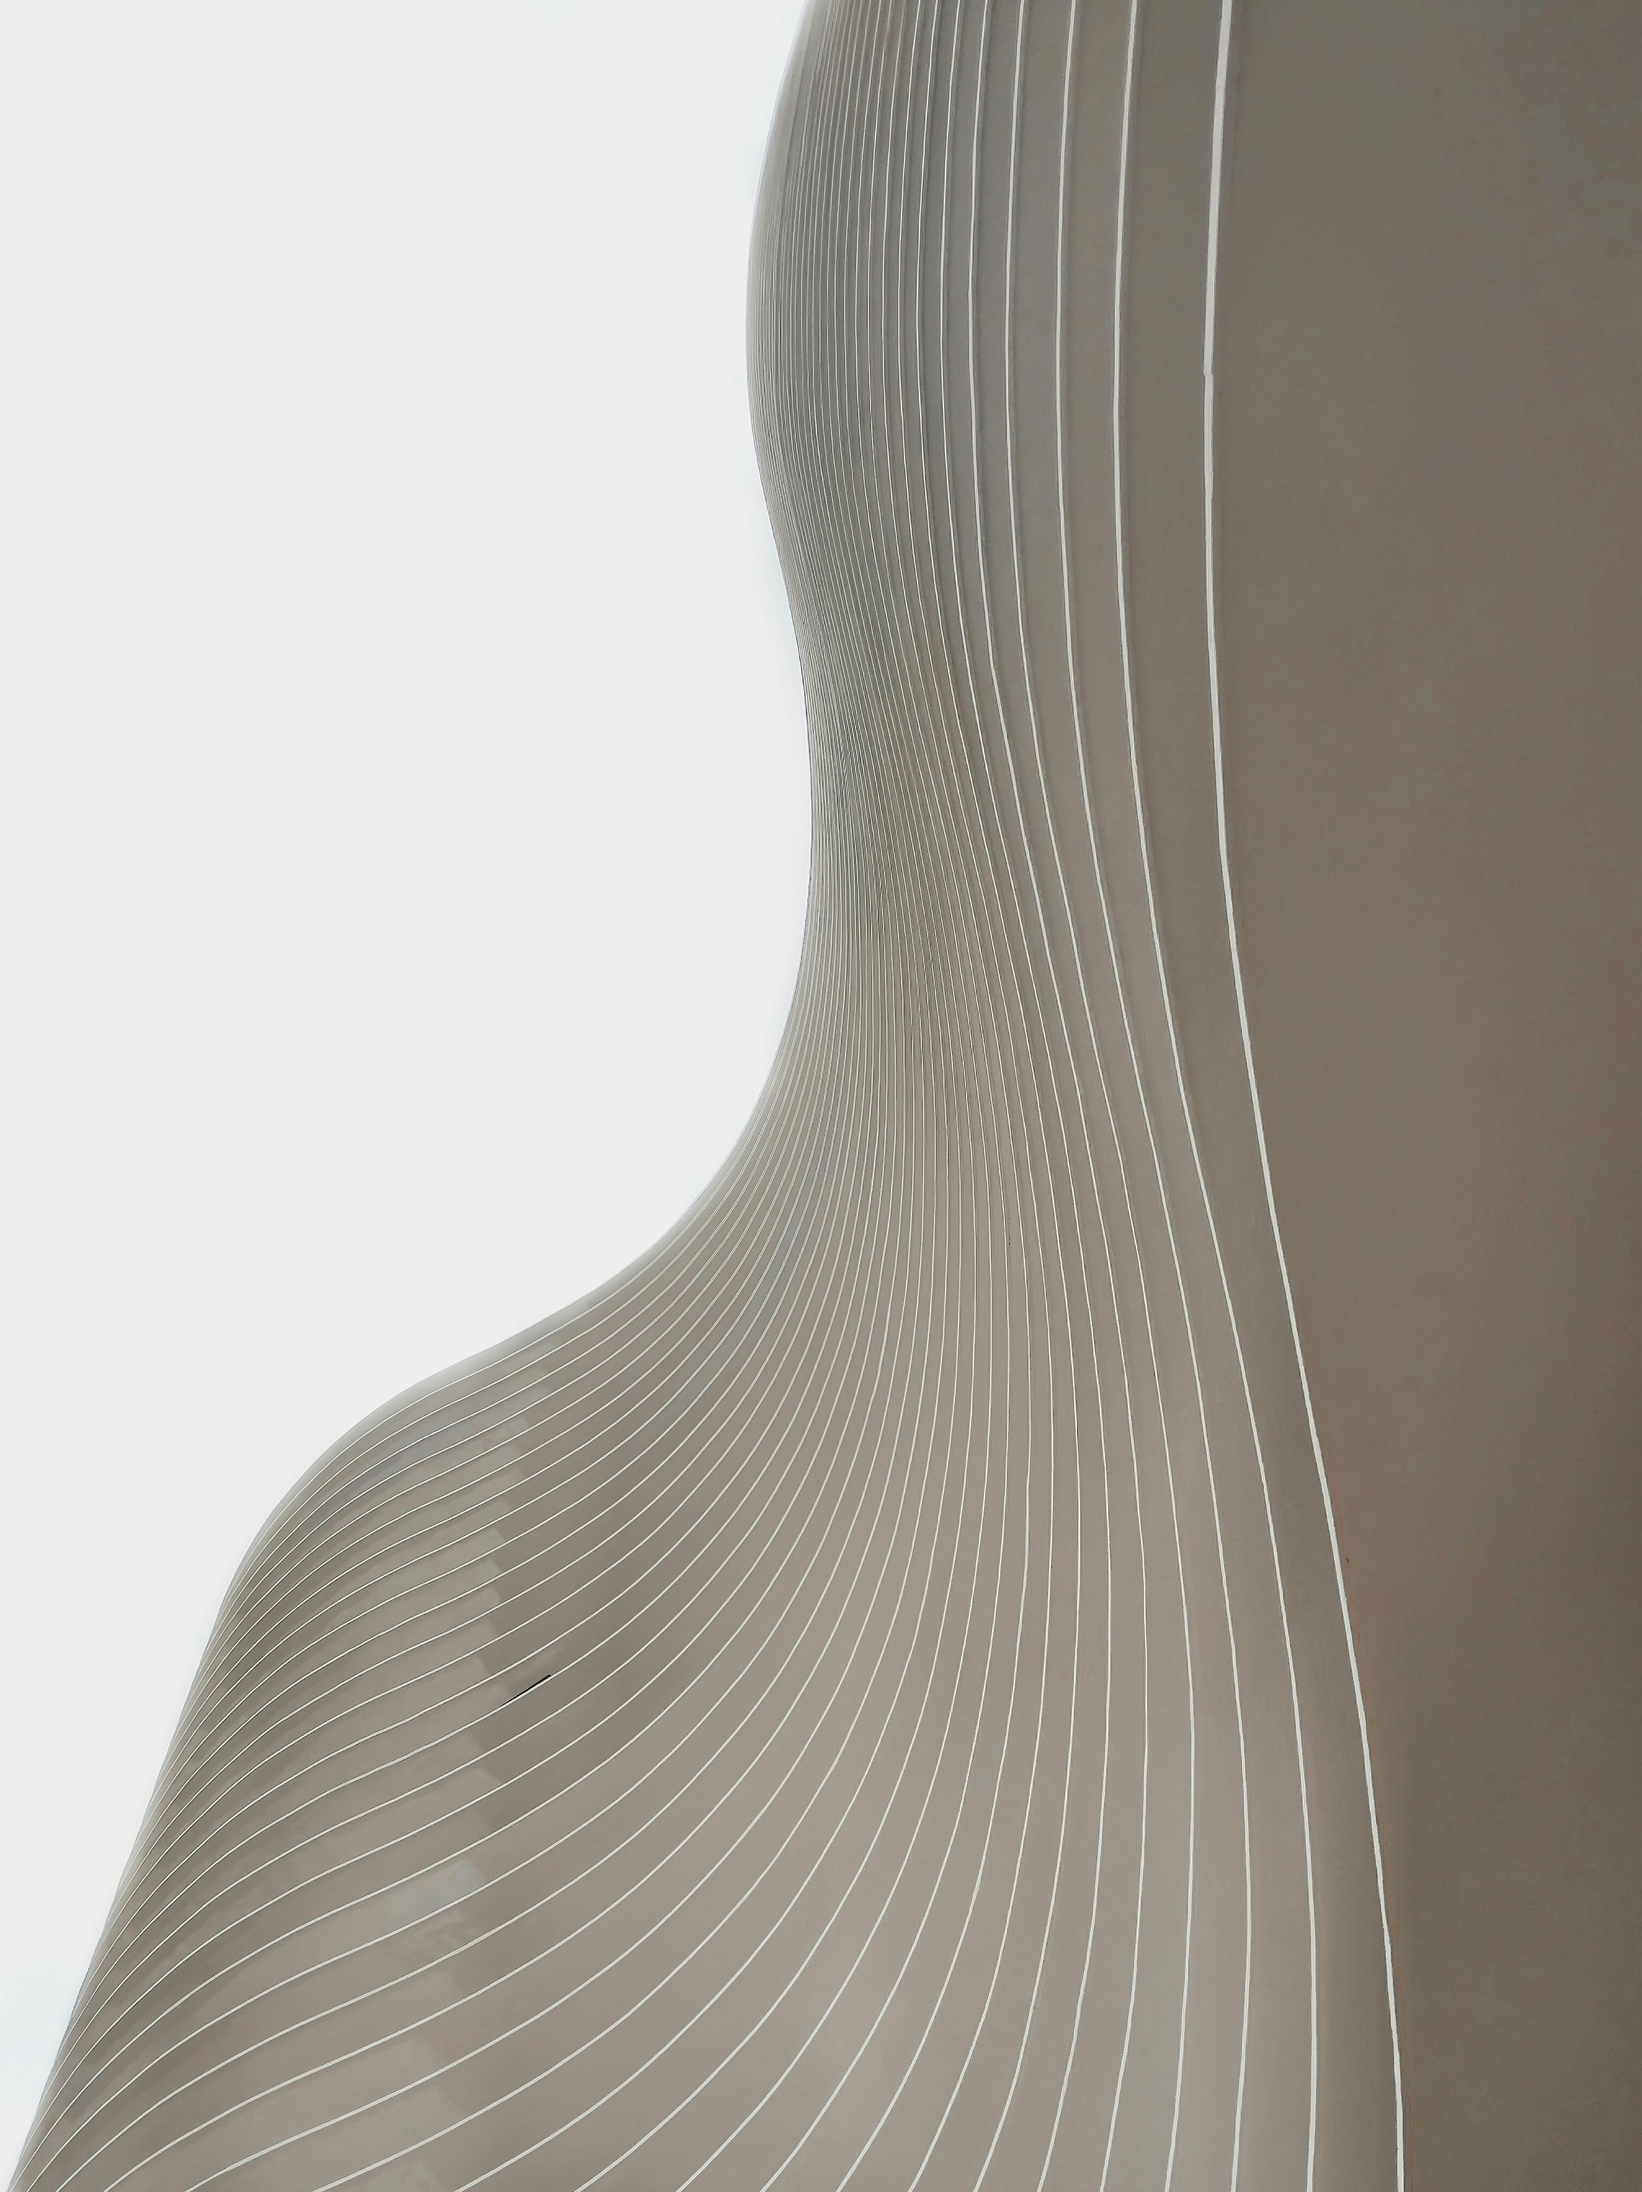
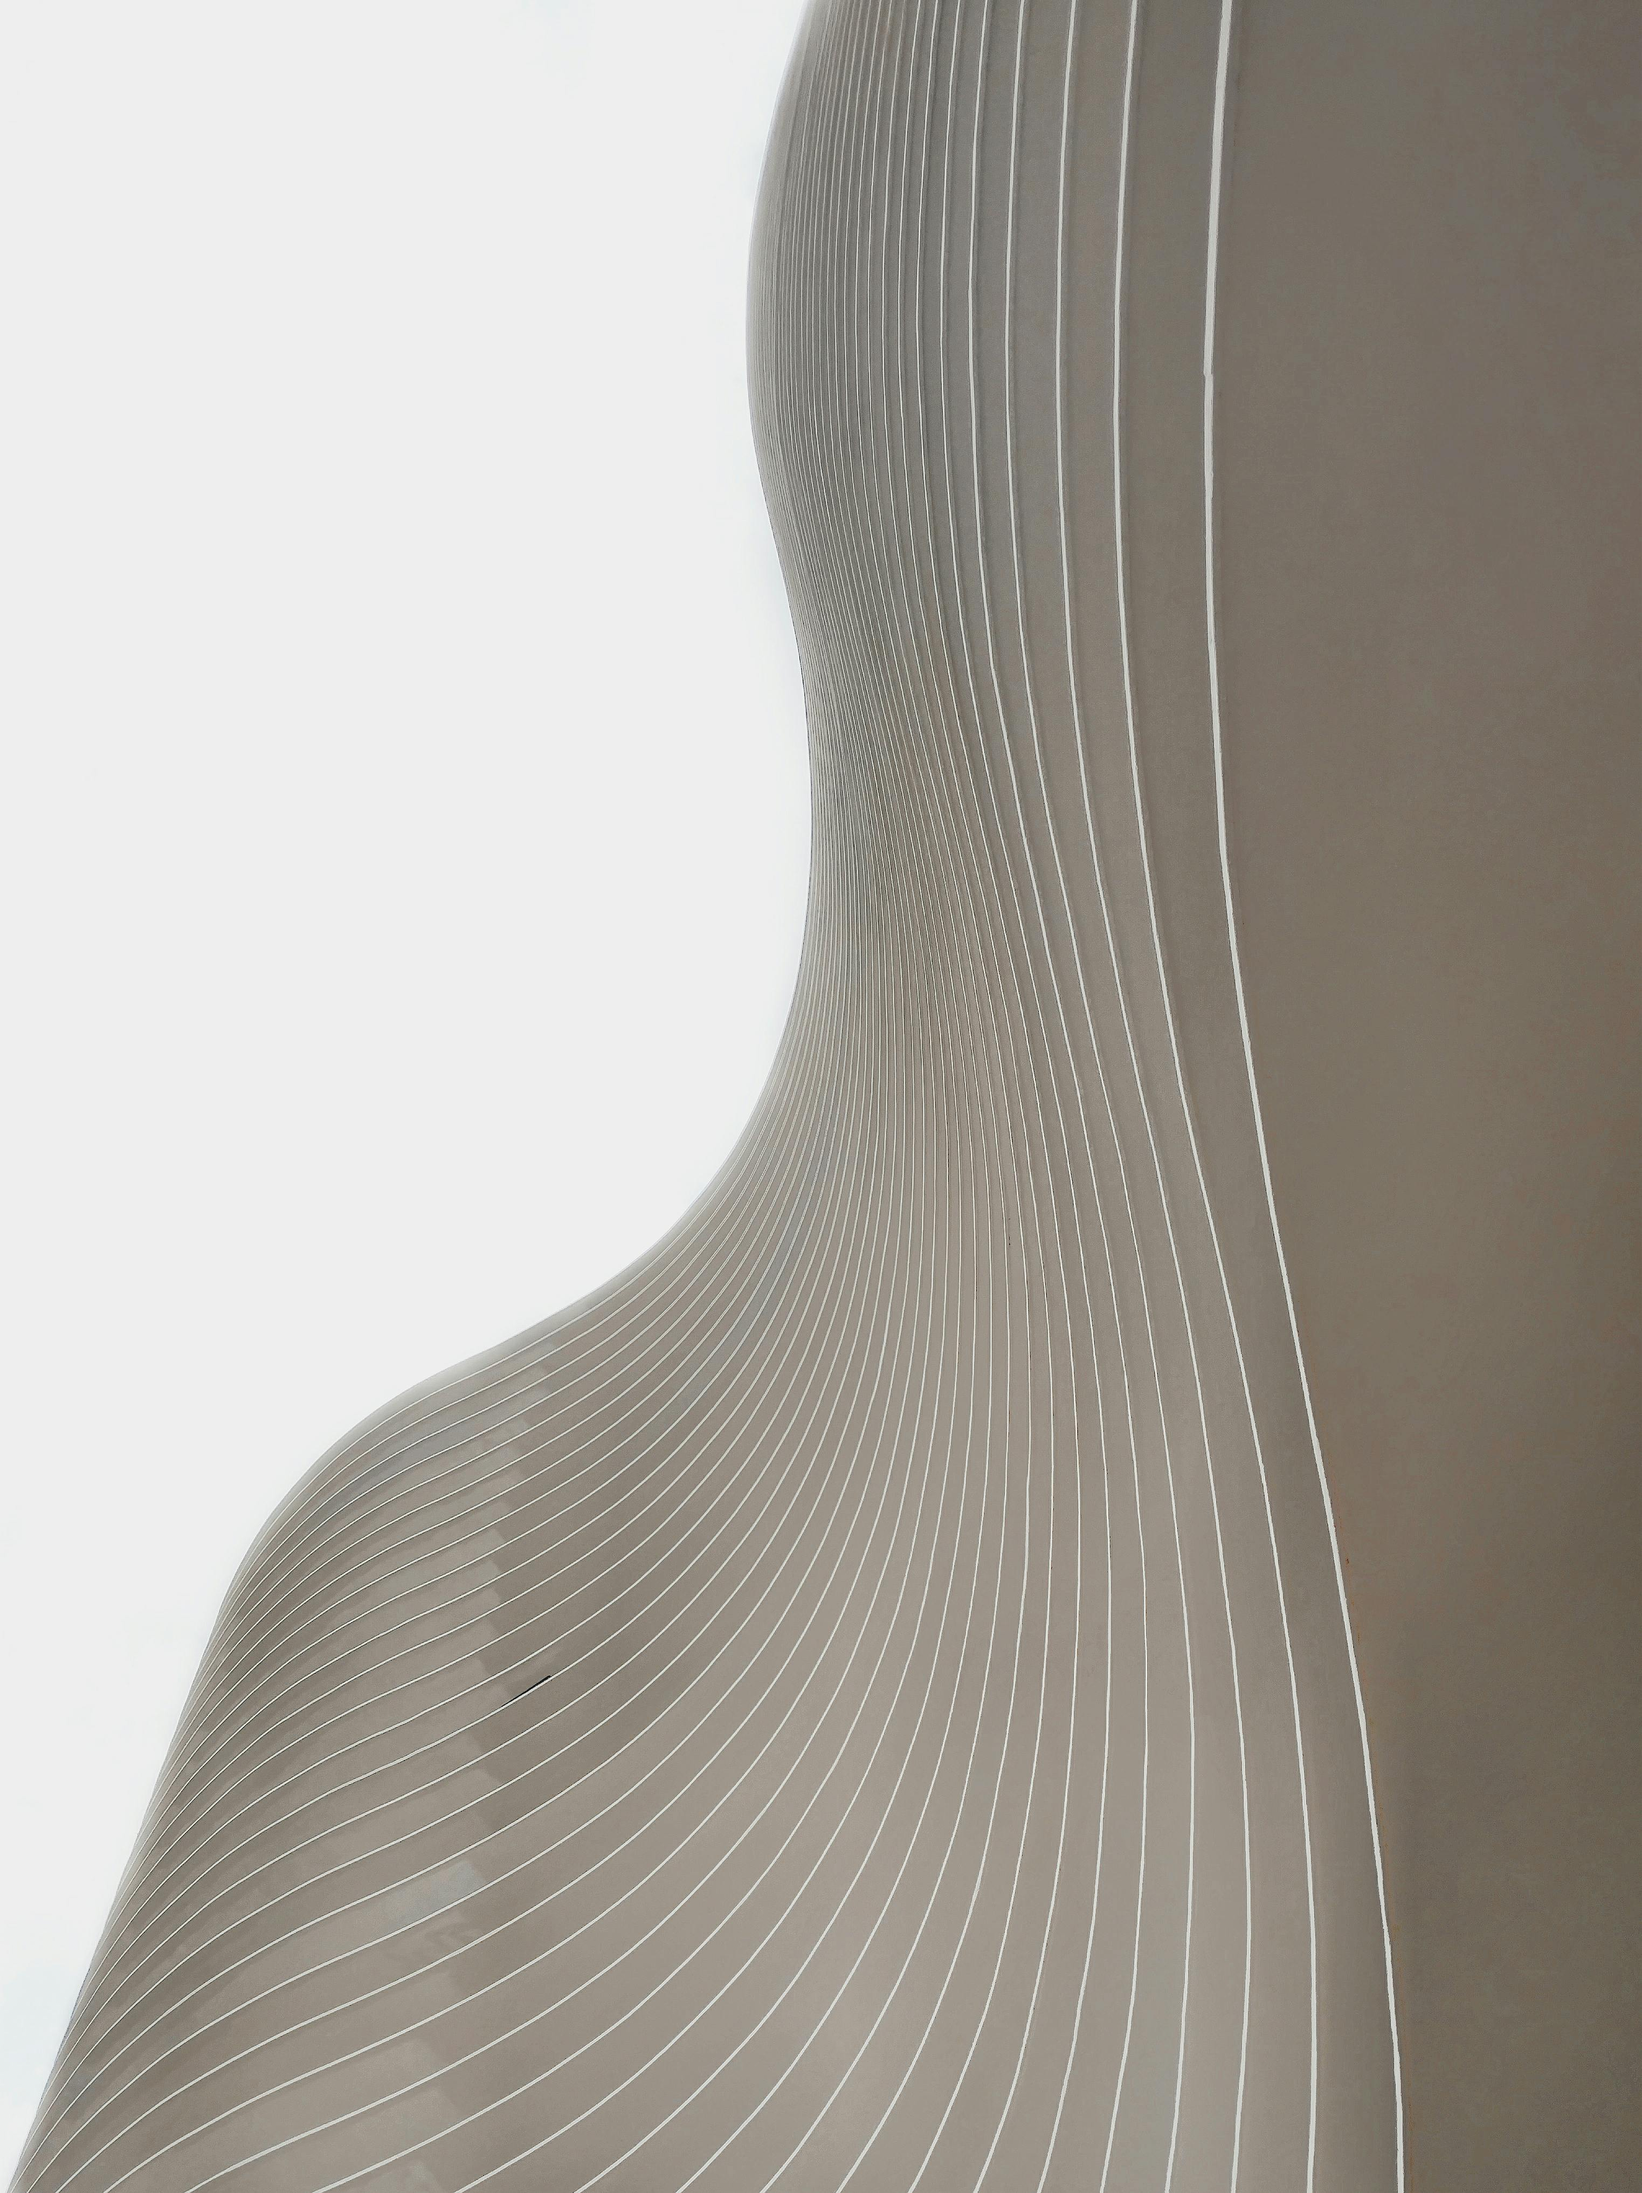
Reduce images size to allow for faster load time

Changed region(s): [[0.4678, 0.2811, 0.5926, 0.4998], [0.4678, 0.1249, 0.499, 0.1874]]

diff --git a/src/index.html b/src/index.html
@@ -12,7 +12,7 @@
   <body>
     <header>
       <div class="image-container">
-        <img src="images/me-1.jpg" alt="Portrait of me" srcset="images/me-1-3x.png 3x" />
+        <img src="images/me-1.jpg" alt="Portrait of me" srcset="images/me-1-3x.jpg 3x" />
         <span>Bodi Ali</span>
       </div>
       <section>
